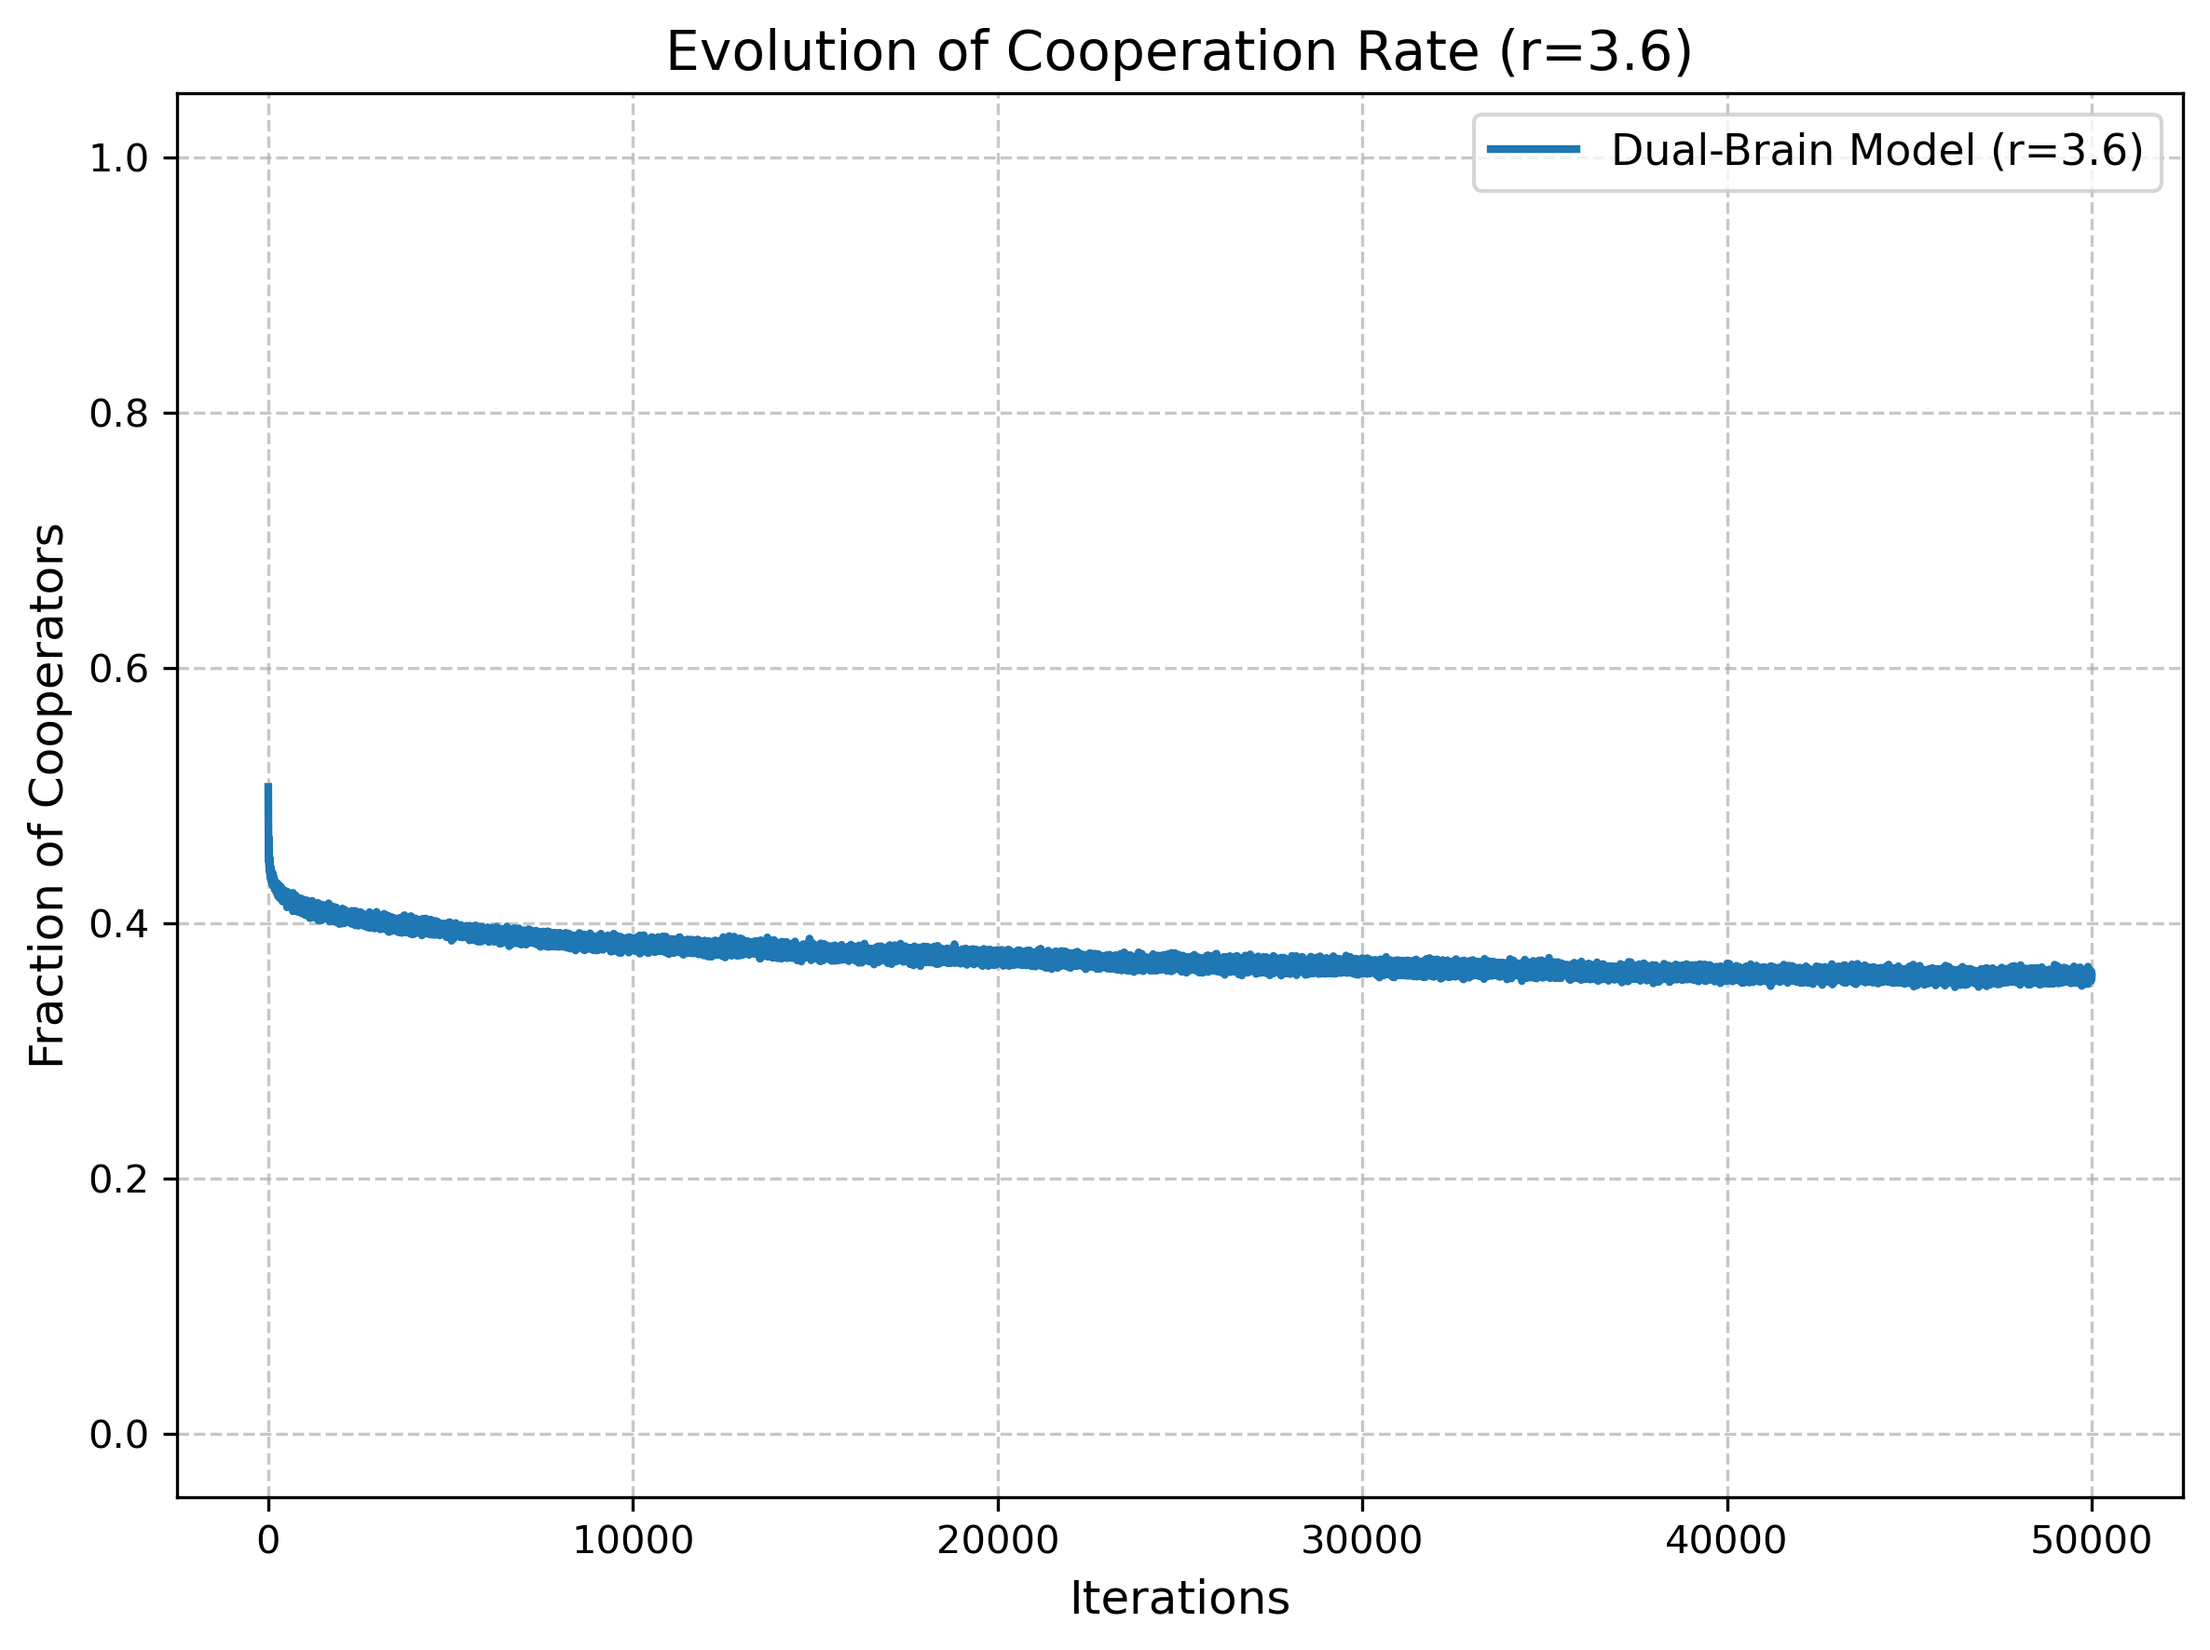
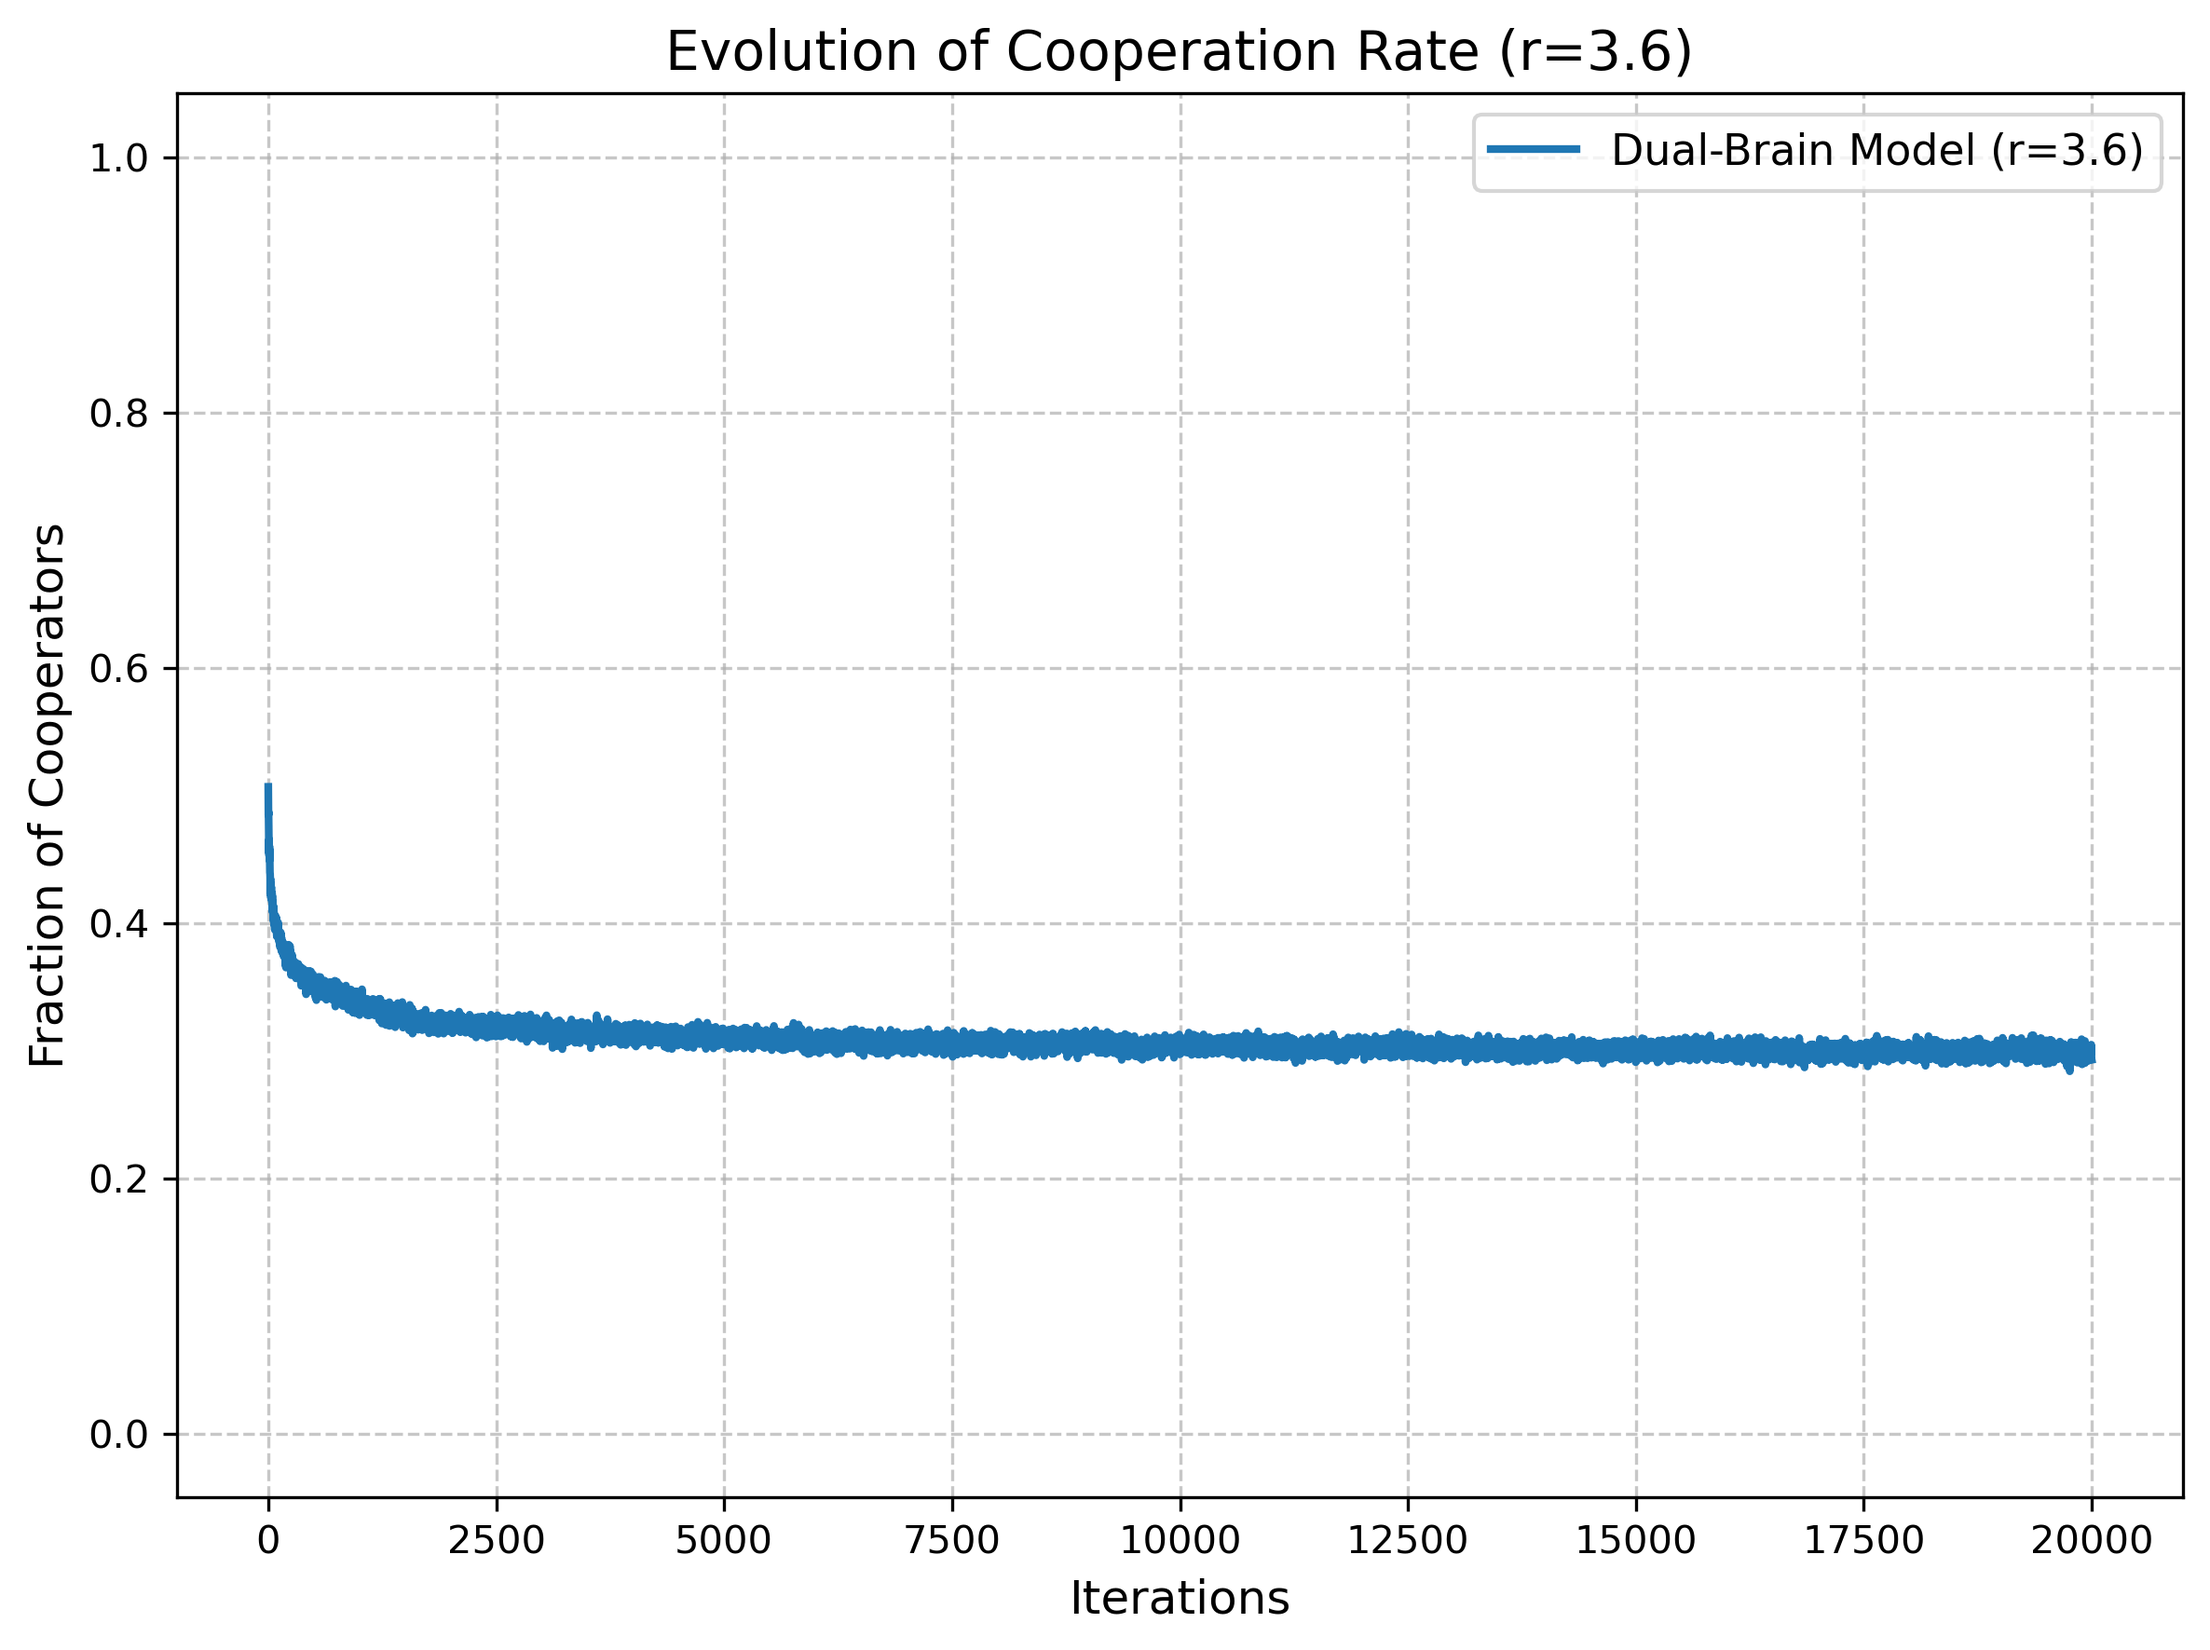
Update

diff --git a/src/core/q_pg_agent.py b/src/core/q_pg_agent.py
@@ -20,6 +20,7 @@ class DualBrainAgents:
 
         # Q^S: 9 个社会状态 x 2 个动作
         self.Q_S = np.zeros((self.L, self.L, 9, 2), dtype=float)
+
         # theta -> w = sigmoid(theta) (Actor 策略参数)
         self.theta = np.zeros((self.L, self.L), dtype=float)
 
@@ -32,7 +33,15 @@ class DualBrainAgents:
         return 1.0 / (1.0 + np.exp(-x))
 
     def get_weights(self) -> np.ndarray:
-        return self._sigmoid(self.theta)
+        """
+        获取当前每个智能体的社会观察融合比例 w
+        """
+        if self.config.adaptive_fusion:
+            # 开启自适应时，w 由策略参数 theta 决定
+            return self._sigmoid(self.theta)
+        else:
+            # 关闭自适应时，w 使用 config 中预设的固定常量
+            return np.full((self.L, self.L), self.config.fixed_w, dtype=float)
 
     def _get_q_values(self, local_states: np.ndarray, social_states: np.ndarray):
         q_l_vals = self.Q_L[self.row_idx, self.col_idx, local_states]
@@ -65,16 +74,18 @@ class DualBrainAgents:
         D = w_expanded * (1.0 - w_expanded) * (q_s_vals - q_l_vals)
         expected_D = np.sum(pi * D, axis=-1)
         actual_D = D[self.row_idx, self.col_idx, actions]
+
+        # 即使关闭自适应也计算梯度并返回以保持外部 API 一致，但外部更新时会予以忽略
         grad_log_pi = (actual_D - expected_D) / self.config.tau
 
         return actions, grad_log_pi
 
     def update_local_q(
-        self,
-        states: np.ndarray,
-        actions: np.ndarray,
-        norm_payoffs: np.ndarray,
-        next_states: np.ndarray,
+            self,
+            states: np.ndarray,
+            actions: np.ndarray,
+            norm_payoffs: np.ndarray,
+            next_states: np.ndarray,
     ):
         q_current = self.Q_L[self.row_idx, self.col_idx, states, actions]
         q_next_max = np.max(self.Q_L[self.row_idx, self.col_idx, next_states], axis=-1)
@@ -83,12 +94,12 @@ class DualBrainAgents:
         self.Q_L[self.row_idx, self.col_idx, states, actions] += self.config.alpha_1 * td_error
 
     def update_social_q_and_pg(
-        self,
-        delayed_states: np.ndarray,
-        delayed_actions: np.ndarray,
-        G_returns: np.ndarray,
-        current_states: np.ndarray,
-        delayed_grad_log_pi: np.ndarray,
+            self,
+            delayed_states: np.ndarray,
+            delayed_actions: np.ndarray,
+            G_returns: np.ndarray,
+            current_states: np.ndarray,
+            delayed_grad_log_pi: np.ndarray,
     ):
         # Q^S 的 N 步目标
         q_current = self.Q_S[self.row_idx, self.col_idx, delayed_states, delayed_actions]
@@ -99,12 +110,14 @@ class DualBrainAgents:
         td_error = G_target - q_current
         self.Q_S[self.row_idx, self.col_idx, delayed_states, delayed_actions] += self.config.alpha_2 * td_error
 
-        # Actor 策略更新：theta <- theta + eta * A * grad log pi
-        advantage = G_target - self.baseline
-        self.theta += self.config.eta * advantage * delayed_grad_log_pi
+        # 仅在开启自适应融合时，更新 Actor 的策略参数 theta 和基线 baseline
+        if self.config.adaptive_fusion:
+            # Actor 策略更新：theta <- theta + eta * A * grad log pi
+            advantage = G_target - self.baseline
+            self.theta += self.config.eta * advantage * delayed_grad_log_pi
 
-        # 平滑更新 baseline
-        self.baseline = (
-            (1.0 - self.config.baseline_alpha) * self.baseline
-            + self.config.baseline_alpha * G_target
-        )
+            # 平滑更新 baseline
+            self.baseline = (
+                    (1.0 - self.config.baseline_alpha) * self.baseline
+                    + self.config.baseline_alpha * G_target
+            )

diff --git a/src/config.py b/src/config.py
@@ -18,13 +18,13 @@ class SimulationConfig:
     iterations: int = 10000
 
     # 2. 状态空间 / 回报参数
-    N_steps: int = 5
+    N_steps: int = 10
     xi: float = 1e-6
-    use_z_score: bool = False
+    use_z_score: bool = True
 
     # 3. 局部 Q 表
     alpha_1: float = 0.5
-    gamma_1: float = 0.5
+    gamma_1: float = 0.1
 
     # 4. 社会 Q 表
     alpha_2: float = 0.1
@@ -32,12 +32,16 @@ class SimulationConfig:
 
     # 5. 动作选择与策略梯度
     tau: float = 0.1
-    eta: float = 0.5
+    eta: float = 0.01
     baseline_alpha: float = 0.05
 
     # 6. 工程参数
     seed: int = 42
-    log_interval: int = 5000
+    log_interval: int = 2000
+
+    # 自适应融合开关与固定参数
+    adaptive_fusion: bool = True  # 是否开启自适应调整双Q融合比例
+    fixed_w: float = 0.5  # 若关闭自适应，使用的固定社会观察融合比例 w
 
     @classmethod
     def from_dict(cls, config_dict: Dict[str, Any]) -> "SimulationConfig":

diff --git a/run_experiment.py b/run_experiment.py
@@ -30,7 +30,7 @@ def main():
     parser = argparse.ArgumentParser(description="运行双视角融合 SPGG 模型")
     parser.add_argument("--r", type=float, default=3.6, help="协同因子 r")
     parser.add_argument("--L", type=int, default=100, help="网格边长 L")
-    parser.add_argument("--iterations", type=int, default=50000, help="最大迭代轮数")
+    parser.add_argument("--iterations", type=int, default=20000, help="最大迭代轮数")
     parser.add_argument("--seed", type=int, default=42, help="随机种子")
     args = parser.parse_args()
 
